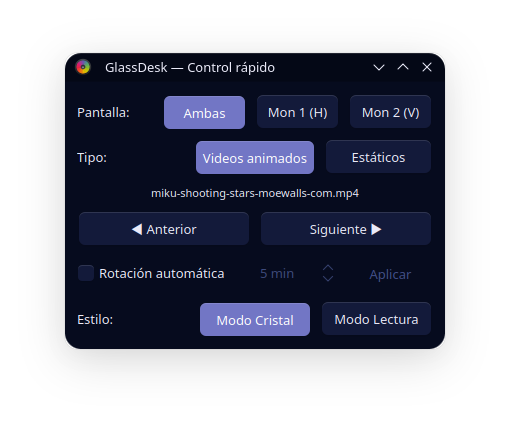
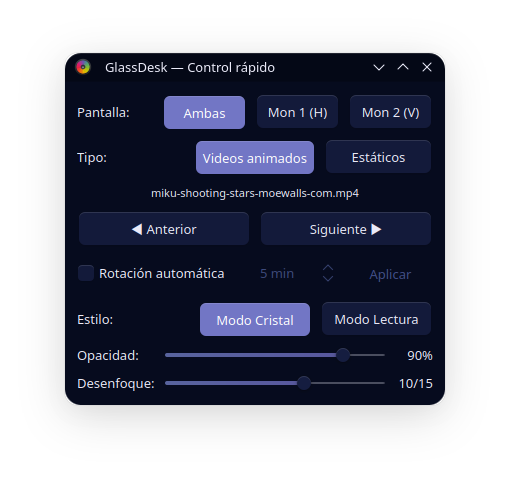
Add live opacity and blur strength sliders to GlassDesk

diff --git a/README.md b/README.md
@@ -17,7 +17,7 @@ Configuración personal para **KDE Plasma 6 (Wayland)** con estética *frosted-g
 
 ## Qué incluye y cómo funciona
 
-* **Estética cristal + desenfoque real:** Configura **Darkly** + **Better Blur DX** (`BlurStrength=10`, `CornerRadius=8`) para dar efecto vidrio esmerilado a ventanas nativas de KDE, Dolphin, menús y paneles.
+* **Estética cristal + desenfoque real:** Configura **Darkly** + **Better Blur DX** (`BlurStrength=10`, `CornerRadius=8`) para dar efecto vidrio esmerilado a ventanas nativas de KDE, Dolphin, menús y paneles, con barras deslizantes en tiempo real para ajustar **Opacidad (`40%–100%`)** y **Desenfoque (`1–15`)**.
 * **Transparencia selectiva (`kwinrulesrc`):** Aplica opacidad (`90%` activa / `84%` inactiva) **solo** a apps nativas de KDE (`Dolphin`, `Preferencias del sistema`, `Konsole`, `Kate`, `Ark`, `KCalc`, `Okular`, `Spectacle`). Navegadores, reproductores y YouTube permanecen al `100%` opacos.
 * **9 temas + acentos sincronizados:** `Tokyo Night`, `Ethereal`, `Kanagawa`, `Nord`, `Catppuccin`, `Matte Black`, `Jade Horse`, `Everforest` y `Gruvbox`, sincronizados con **KDE Plasma**, **Ptyxis** y **Konsole**.
 * **Soporte multimonitor inteligente:** Detecta dinámicamente cuántas pantallas activas tienes (si solo hay 1, oculta el selector de monitores) y detecta orientación **horizontal vs vertical** (usando `Vertical/` si hay contenido, o aplicando ajuste con relleno desenfocado si no).
